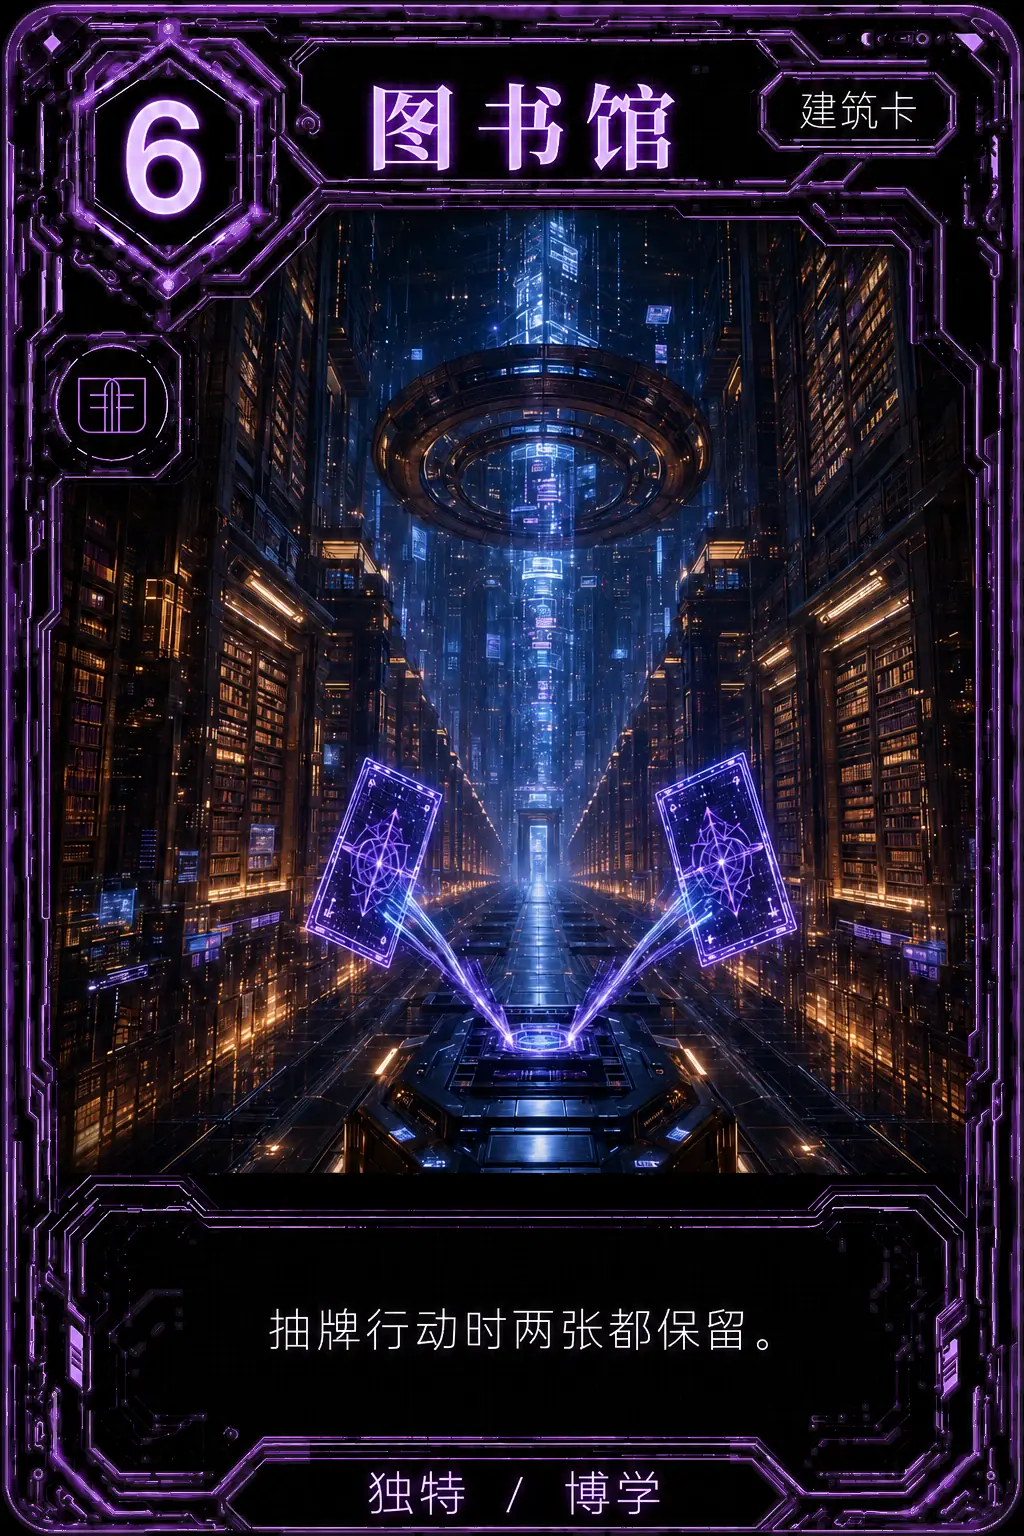
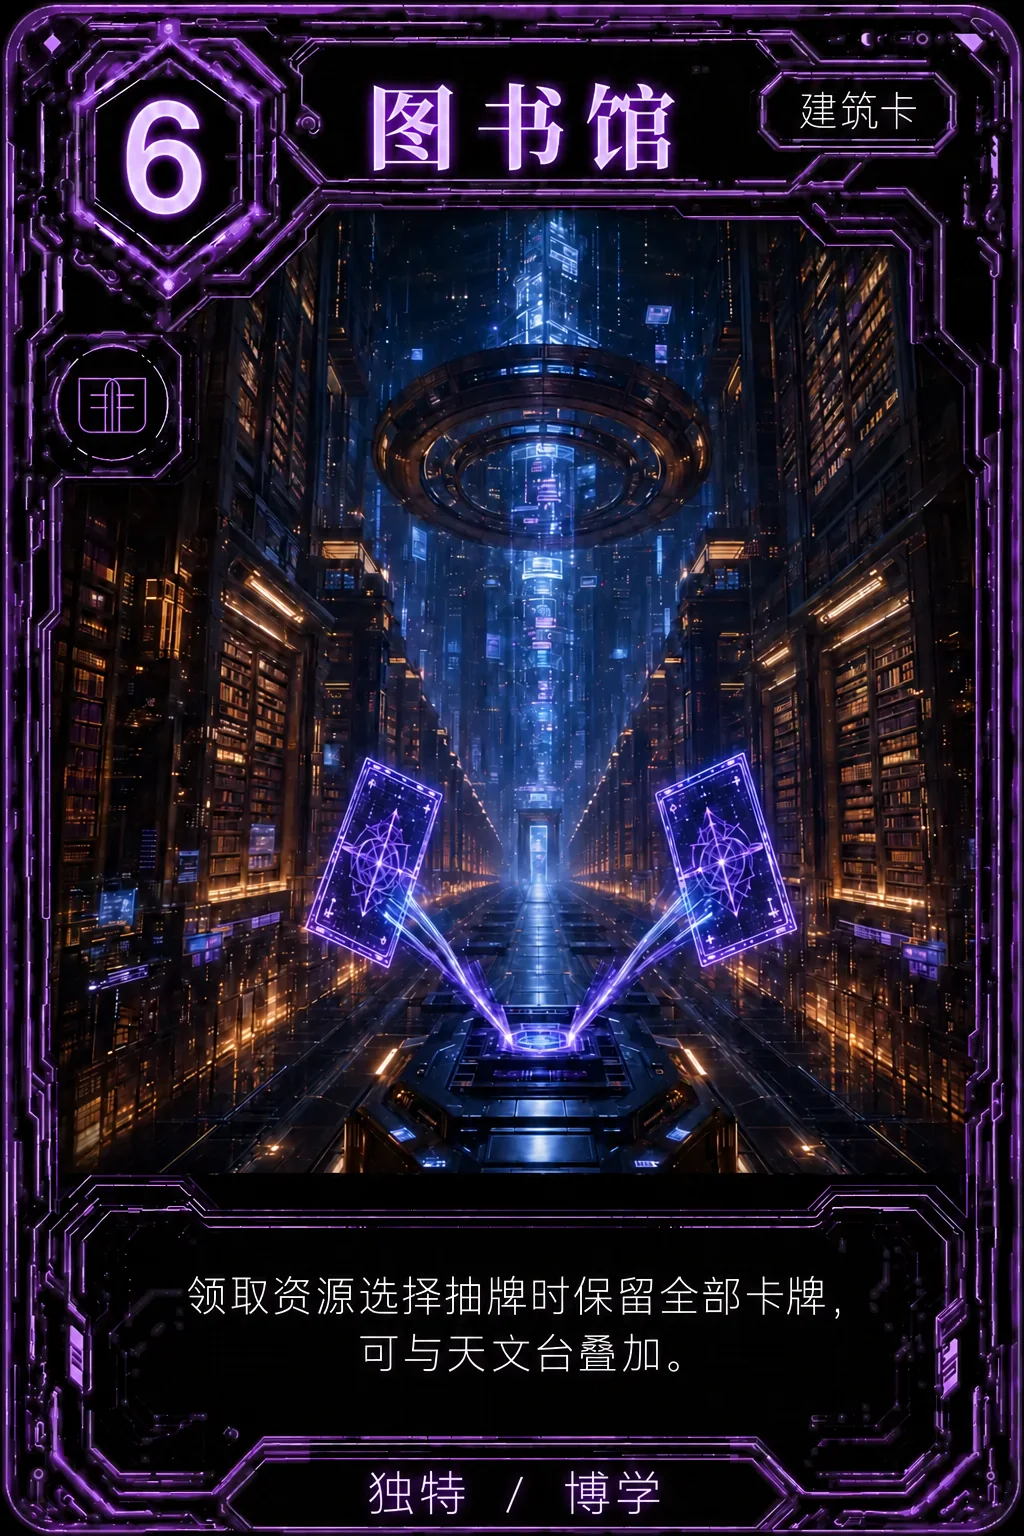
Update district card artwork to current rules

diff --git a/public/themes/neon/manifest.js b/public/themes/neon/manifest.js
@@ -22,6 +22,8 @@
   ];
 
   function variants(folder, key) {
+    const updatedRules = folder === 'districts' &&
+      ['ghost_town', 'laboratory', 'observatory', 'library', 'great_wall', 'quarry'].includes(key);
     // 墓地卡图曾把建造费用 5 错印成能力支付费用 1，多张角色卡已更新；
     // 魔术师恢复为原卡图；
     // 单独版本化，让已安装 PWA 绕过旧图片的 HTTP / Service Worker 缓存。
@@ -41,9 +43,9 @@
                 ? '?v=3'
                 : (versioned ? '?v=2' : ''))))));
     return {
-      thumb: base + folder + '/thumb/' + key + '.webp' + version,
+      thumb: base + folder + '/thumb/' + key + '.webp' + (updatedRules ? '?v=rules-20261010' : version),
       // Full-resolution artwork was recompressed; version the URL so browser/PWA caches refresh it.
-      full: base + folder + '/full/' + key + '.webp?v=optimized-1'
+      full: base + folder + '/full/' + key + '.webp' + (updatedRules ? '?v=rules-20261010' : '?v=optimized-1')
     };
   }
 

diff --git a/public/mobile.html b/public/mobile.html
@@ -183,7 +183,7 @@ button{font:inherit} body{background:radial-gradient(circle at 50% -15%,#17335a 
 <!-- 首页 / 单人设置 / 联机大厅：与 PC 端共用同一个组件（public/components/citadels-lobby.js） -->
 <c-citadels-lobby id="lobby" mode="mobile"></c-citadels-lobby>
 
-<script src="./themes/neon/manifest.js"></script>
+<script src="./themes/neon/manifest.js?v=12"></script>
 <script src="./themes/theme-manager.js?v=4"></script>
 <script src="./src/cards.js?v=5"></script>
 <script src="./mobile-theme.js?v=2"></script>

diff --git a/public/index.html b/public/index.html
@@ -270,7 +270,7 @@
      浏览器只在元素处于文档中时才保证音频持续播放。 -->
 <div id="voice-audio" aria-hidden="true"></div>
 
-<script src="./themes/neon/manifest.js?v=11"></script>
+<script src="./themes/neon/manifest.js?v=12"></script>
 <script src="./themes/theme-manager.js?v=4"></script>
 <script src="./src/cards.js?v=5"></script>
 <script src="./components/citadels-lobby.js?v=7"></script>

diff --git a/public/sw.js b/public/sw.js
@@ -1,4 +1,4 @@
-const CACHE_NAME = 'citadels-shell-v68';
+const CACHE_NAME = 'citadels-shell-v69';
 // 语音 SDK（vendor/livekit-client.umd.min.js，近 600KB）故意不放进预缓存清单：
 // 它只在第一次点「语音」时才动态加载，下面的运行时缓存会在那次请求后把它存下来。
 // 放进 APP_SHELL 会让每个单机玩家都白白下载一遍。

diff --git a/docs/card-art-updates-20261010.md b/docs/card-art-updates-20261010.md
@@ -1,0 +1,46 @@
+# 建筑卡图规则更新（2026-10-10）
+
+使用内置 image_gen 编辑现有卡图；原有插画、标题、边框和版式作为保留约束。逐张目视核对中文和数字后，使用 tools/compress_images.py 转为 WebP 大图（1024×1536）和缩略图（280×420）。
+
+最终资源目录：
+
+- `public/assets/themes/neon/cards/districts/full/`
+- `public/assets/themes/neon/cards/districts/thumb/`
+
+以下为六张卡实际使用的编辑提示词。天文台另将左上角费用 5 改为 4。
+
+## ghost_town.webp
+
+```text
+Use case: text-localization. Edit the attached existing Citadels building card, preserving its original 1024×1536 portrait layout and all original illustration, neon purple ornamental frame, title, type label, footer and icons. Replace ONLY the white Chinese rules text in the black lower rules panel with exactly the following text, centered with balanced line spacing and matching the original thin white Chinese font: "终局计分时可视为任意一种颜色，\n包括最后一轮建成时。". Completely remove the previous rules text. Keep the entire card visible, no cropping, no added marks. Preserve the upper-left cost numeral unchanged. Preserve everything outside the rules panel as exactly as possible. Ensure every Chinese character and numeral is legible and correct.
+```
+
+## laboratory.webp
+
+```text
+Use case: text-localization. Edit the attached existing Citadels building card, preserving its original 1024×1536 portrait layout and all original illustration, neon purple ornamental frame, title, type label, footer and icons. Replace ONLY the white Chinese rules text in the black lower rules panel with exactly the following text, centered with balanced line spacing and matching the original thin white Chinese font: "你的回合中可弃1张手牌换取2金币，\n每回合限一次。". Completely remove the previous rules text. Keep the entire card visible, no cropping, no added marks. Preserve the upper-left cost numeral unchanged. Preserve everything outside the rules panel as exactly as possible. Ensure every Chinese character and numeral is legible and correct.
+```
+
+## observatory.webp
+
+```text
+Use case: text-localization. Edit the attached existing Citadels building card, preserving its original 1024×1536 portrait layout and all original illustration, neon purple ornamental frame, title, type label, footer and icons. Replace ONLY the white Chinese rules text in the black lower rules panel with exactly the following text, centered with balanced line spacing and matching the original thin white Chinese font: "领取资源选择抽牌时，\n抽3张而非2张。". Completely remove the previous rules text. Keep the entire card visible, no cropping, no added marks. Also change ONLY the large upper-left glowing cost numeral from 5 to 4, matching the existing purple glowing font. Preserve everything outside the rules panel and cost numeral as exactly as possible. Ensure every Chinese character and numeral is legible and correct.
+```
+
+## library.webp
+
+```text
+Use case: text-localization. Edit the attached existing Citadels building card, preserving its original 1024×1536 portrait layout and all original illustration, neon purple ornamental frame, title, type label, footer and icons. Replace ONLY the white Chinese rules text in the black lower rules panel with exactly the following text, centered with balanced line spacing and matching the original thin white Chinese font: "领取资源选择抽牌时保留全部卡牌，\n可与天文台叠加。". Completely remove the previous rules text. Keep the entire card visible, no cropping, no added marks. Preserve the upper-left cost numeral unchanged. Preserve everything outside the rules panel as exactly as possible. Ensure every Chinese character and numeral is legible and correct.
+```
+
+## great_wall.webp
+
+```text
+Use case: text-localization. Edit the attached existing Citadels building card, preserving its original 1024×1536 portrait layout and all original illustration, neon purple ornamental frame, title, type label, footer and icons. Replace ONLY the white Chinese rules text in the black lower rules panel with exactly the following text, centered with balanced line spacing and matching the original thin white Chinese font: "八号角色对你的其他建筑\n使用能力时多付1金币。". Completely remove the previous rules text. Keep the entire card visible, no cropping, no added marks. Preserve the upper-left cost numeral unchanged. Preserve everything outside the rules panel as exactly as possible. Ensure every Chinese character and numeral is legible and correct.
+```
+
+## quarry.webp
+
+```text
+Use case: text-localization. Edit the attached existing Citadels building card, preserving its original 1024×1536 portrait layout and all original illustration, neon purple ornamental frame, title, type label, footer and icons. Replace ONLY the white Chinese rules text in the black lower rules panel with exactly the following text, centered with balanced line spacing and matching the original thin white Chinese font: "可建造任意数量的同名建筑；\n行政官、外交官或元帅获取建筑时，\n仍不可获取同名建筑。". Completely remove the previous rules text. Keep the entire card visible, no cropping, no added marks. Preserve the upper-left cost numeral unchanged. Preserve everything outside the rules panel as exactly as possible. Ensure every Chinese character and numeral is legible and correct.
+```
